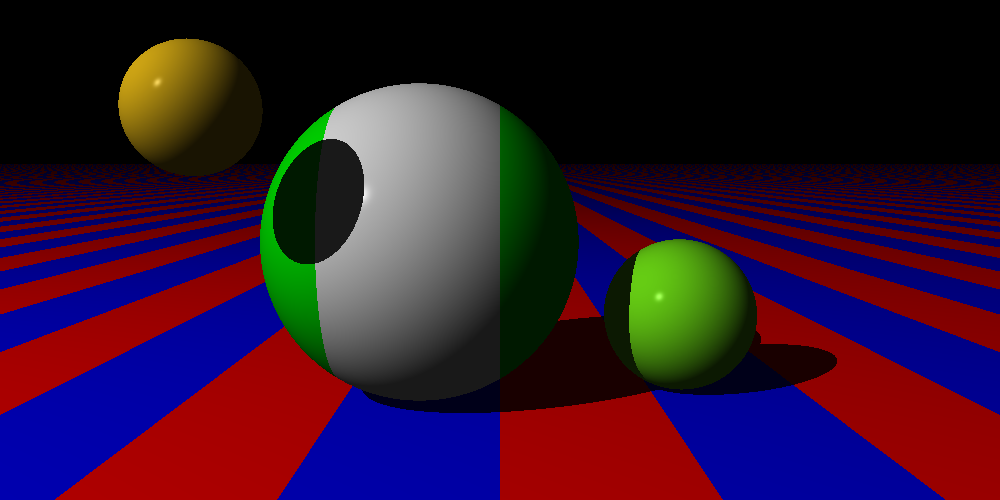
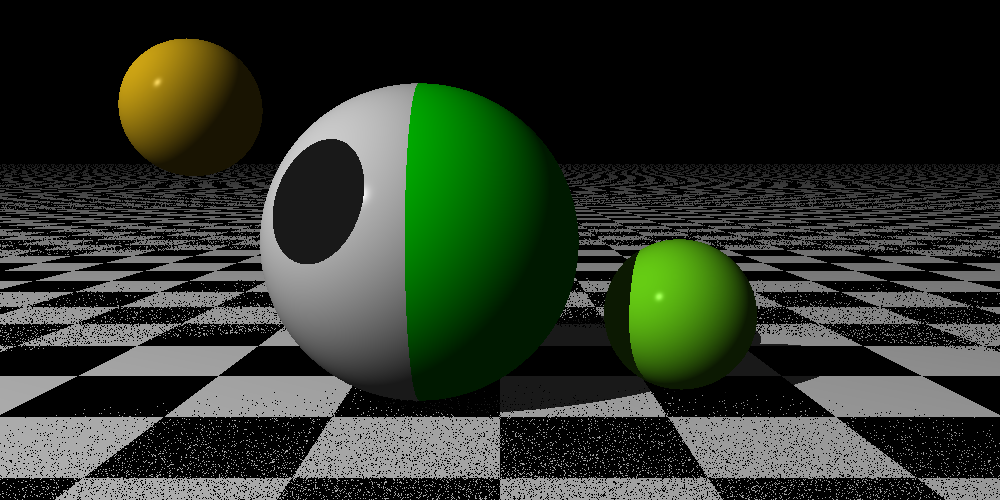
some rounding issue again. probably

diff --git a/mathlib/src/visual/patterns.rs b/mathlib/src/visual/patterns.rs
@@ -1,6 +1,6 @@
 use crate::{
     mathstructs::{matrix::Matrix, point::Point},
-    object::Object,
+    object::Object, cmp::ApproxEq,
 };
 
 use super::color::Col;
@@ -9,16 +9,23 @@ use super::color::Col;
 pub enum Texture {
     Single(Col),
     Stripe(Col, Col),
+    Gradient(Col, Col),
+    Ring(Col, Col),
+    Checker(Col, Col),
 }
 
 impl Texture {
-    pub fn at(&self, point: &Point) -> &Col {
+    pub fn at(&self, point: &Point) -> Col {
         match self {
             Texture::Stripe(a, b) => stripe_at(point, a, b),
-            Texture::Single(a) => a,
+            Texture::Single(a) => *a,
+            Texture::Gradient(a, b) => gradient_at(point, a, b),
+            Texture::Ring(a, b) => ring_at(point, a, b),
+            Texture::Checker(a, b) => checker_at(point, a, b),
         }
     }
 }
+
 
 #[derive(Debug, Clone)]
 pub struct Pattern {
@@ -27,20 +34,48 @@ pub struct Pattern {
 }
 
 impl Pattern {
-    pub fn single(a: Col) -> Self {
+    /// sets pattern transform. (default is None)
+    pub fn pattern_transform(mut self, transform: Matrix) -> Self {
+        self.transform = Some(transform);
+        self
+    }
+
+    pub fn new_single(a: Col) -> Self {
         Self {
             texture: Texture::Single(a),
             transform: None,
         }
     }
-    pub fn stripe(a: Col, b: Col) -> Self {
+
+    pub fn new_stripe(a: Col, b: Col) -> Self {
         Self {
             texture: Texture::Stripe(a, b),
             transform: None,
         }
     }
 
-    pub fn at_with_obj(&self, object: &Object, world_point: &Point) -> &Col {
+    pub fn new_gradient(a: Col, b: Col) -> Self {
+        Self {
+            texture: Texture::Gradient(a, b),
+            transform: None,
+        }
+    }
+
+    pub fn new_ring(a: Col, b: Col) -> Self {
+        Self {
+            texture: Texture::Ring(a, b),
+            transform: None,
+        }
+    }
+
+    pub fn new_checkers(a: Col, b: Col) -> Self {
+        Self {
+            texture: Texture::Checker(a, b),
+            transform: None,
+        }
+    }
+
+    pub fn at_with_obj(&self, object: &Object, world_point: &Point) -> Col {
         let object_point = object.transformation.inverse() * *world_point;
         match self.transform {
             Some(t) => self.texture.at(&(t.inverse() * object_point)),
@@ -55,11 +90,35 @@ impl PartialEq for Pattern {
     }
 }
 
-fn stripe_at<'a>(point: &Point, a: &'a Col, b: &'a Col) -> &'a Col {
+fn stripe_at<'a>(point: &Point, a: &'a Col, b: &'a Col) -> Col {
     if point.x.floor() % 2.0 == 0.0 {
-        return a;
+        return *a;
     }
-    b
+    *b
+}
+
+fn gradient_at<'a>(point: &Point, a: &'a Col, b: &'a Col) -> Col {
+    *a + (*b - *a) * (point.x - point.x.floor())
+}
+
+fn ring_at<'a>(point: &Point, a: &'a Col, b: &'a Col) -> Col {
+    if ((point.x*point.x + point.z*point.z).sqrt()).floor() % 2.0 == 0.0 {
+        return *a;
+    }
+    *b
+}
+
+fn checker_at<'a>(point: &Point, a: &'a Col, b: &'a Col) -> Col {
+    let sum = f64::floor(point.x) + f64::floor(point.y) + f64::floor(point.z);
+        if (sum % 2.0).apx_eq(&0.0) {
+            return *a;
+        }
+        *b
+        
+    // if ((point.x.abs() + point.y.abs() + point.z.abs()) % 2.0) == 0.0 {
+    //     return *a;
+    // }
+    // *b
 }
 
 #[cfg(test)]
@@ -80,23 +139,23 @@ mod tests {
 
     #[test]
     fn creating_a_stripe_patter() {
-        let pattern = Pattern::stripe(WHITE, BLACK);
+        let pattern = Pattern::new_stripe(WHITE, BLACK);
         // constant y:
-        assert_eq!(*pattern.texture.at(&Point::inew(0, 0, 0)), WHITE);
-        assert_eq!(*pattern.texture.at(&Point::inew(0, 1, 0)), WHITE);
-        assert_eq!(*pattern.texture.at(&Point::inew(0, 2, 0)), WHITE);
+        assert_eq!(pattern.texture.at(&Point::inew(0, 0, 0)), WHITE);
+        assert_eq!(pattern.texture.at(&Point::inew(0, 1, 0)), WHITE);
+        assert_eq!(pattern.texture.at(&Point::inew(0, 2, 0)), WHITE);
         // constant z:
-        assert_eq!(*pattern.texture.at(&Point::inew(0, 0, 0)), WHITE);
-        assert_eq!(*pattern.texture.at(&Point::inew(0, 0, 1)), WHITE);
-        assert_eq!(*pattern.texture.at(&Point::inew(0, 0, 2)), WHITE);
+        assert_eq!(pattern.texture.at(&Point::inew(0, 0, 0)), WHITE);
+        assert_eq!(pattern.texture.at(&Point::inew(0, 0, 1)), WHITE);
+        assert_eq!(pattern.texture.at(&Point::inew(0, 0, 2)), WHITE);
         // alternating in x:
-        assert_eq!(*pattern.texture.at(&Point::inew(0, 0, 0)), WHITE);
-        assert_eq!(*pattern.texture.at(&Point::new(0.9, 0.0, 0.0)), WHITE);
-        assert_eq!(*pattern.texture.at(&Point::new(1.0, 0.0, 0.0)), BLACK);
+        assert_eq!(pattern.texture.at(&Point::inew(0, 0, 0)), WHITE);
+        assert_eq!(pattern.texture.at(&Point::new(0.9, 0.0, 0.0)), WHITE);
+        assert_eq!(pattern.texture.at(&Point::new(1.0, 0.0, 0.0)), BLACK);
 
-        assert_eq!(*pattern.texture.at(&Point::new(-0.1, 0.0, 0.0)), BLACK);
-        assert_eq!(*pattern.texture.at(&Point::new(-1.0, 0.0, 0.0)), BLACK);
-        assert_eq!(*pattern.texture.at(&Point::new(-1.1, 0.0, 0.0)), WHITE);
+        assert_eq!(pattern.texture.at(&Point::new(-0.1, 0.0, 0.0)), BLACK);
+        assert_eq!(pattern.texture.at(&Point::new(-1.0, 0.0, 0.0)), BLACK);
+        assert_eq!(pattern.texture.at(&Point::new(-1.1, 0.0, 0.0)), WHITE);
     }
 
     // patterns transforming independently
@@ -104,6 +163,62 @@ mod tests {
     fn stripes_with_an_object_transformation() {
         let mut object = Sphere::new();
         object.set_transform(Matrix::scaling_new(2.0, 2.0, 2.0));
-        let _pattern = Pattern::stripe(WHITE, BLACK);
+        let pattern = Pattern::new_stripe(WHITE, BLACK);
+        let res = pattern.at_with_obj(&object, &Point::new(1.5, 0.0, 0.0));
+        assert_eq!(res, WHITE);
+    }
+
+    #[test]
+    fn stripes_with_a_pattern_transformation() {
+        let object = Sphere::new();
+        let mut pattern = Pattern::new_stripe(WHITE, BLACK);
+        pattern.transform = Some(Matrix::scaling_new(2.0, 2.0, 2.0)); 
+        let res = pattern.at_with_obj(&object, &Point::new(1.5, 0.0, 0.0));
+        assert_eq!(res, WHITE);
+    }
+
+    #[test]
+    fn stripes_with_obj_and_pattern_transformation() {
+        let mut object = Sphere::new();
+        object.set_transform(Matrix::scaling_new(2.0, 2.0, 2.0));
+        let mut pattern = Pattern::new_stripe(WHITE, BLACK);
+        pattern.transform = Some(Matrix::translation_new(0.5, 0.0, 0.0)); 
+        let res = pattern.at_with_obj(&object, &Point::new(2.5, 0.0, 0.0));
+        assert_eq!(res, WHITE);
+    }
+
+    #[test]
+    fn a_gradient_linearly_interpolates_between_colors() {
+        let pattern = Pattern::new_gradient(WHITE, BLACK);
+        assert_eq!(pattern.texture.at(&Point::inew(0, 0, 0)), WHITE);
+        assert_eq!(pattern.texture.at(&Point::new(0.25, 0.0, 0.0)), Col::new(0.75, 0.75, 0.75));
+        assert_eq!(pattern.texture.at(&Point::new(0.5, 0.0, 0.0)), Col::new(0.5, 0.5, 0.5));
+        assert_eq!(pattern.texture.at(&Point::new(0.75, 0.0, 0.0)), Col::new(0.25, 0.25, 0.25));
+    }
+
+    #[test]
+    fn a_ring_should_extend_in_both_x_z() {
+        let pattern = Pattern::new_ring(WHITE, BLACK);
+        assert_eq!(pattern.texture.at(&Point::inew(0, 0, 0)), WHITE);
+        assert_eq!(pattern.texture.at(&Point::new(1.0, 0.0, 0.0)), BLACK);
+        assert_eq!(pattern.texture.at(&Point::new(0.0, 0.0, 1.0)), BLACK);
+        assert_eq!(pattern.texture.at(&Point::new(0.708, 0.0, 0.708)), BLACK);
+    }
+
+    #[test]
+    fn checkers_should_repeat(){
+        let pattern = Pattern::new_checkers(WHITE, BLACK);
+        // repeats x direction
+        assert_eq!(pattern.texture.at(&Point::new(0.0, 0.0, 0.0)), WHITE);
+        assert_eq!(pattern.texture.at(&Point::new(0.99, 0.0, 0.0)), WHITE);
+        assert_eq!(pattern.texture.at(&Point::new(1.01, 0.0, 0.0)), WHITE);
+        // repeats y direction
+        assert_eq!(pattern.texture.at(&Point::new(0.0, 0.0, 0.0)), WHITE);
+        assert_eq!(pattern.texture.at(&Point::new(0.0, 0.99, 0.0)), WHITE);
+        assert_eq!(pattern.texture.at(&Point::new(0.0, 1.01, 0.0)), WHITE);
+        // repeats z direction
+        assert_eq!(pattern.texture.at(&Point::new(0.0, 0.0, 0.0)), WHITE);
+        assert_eq!(pattern.texture.at(&Point::new(0.0, 0.0, 0.99)), WHITE);
+        assert_eq!(pattern.texture.at(&Point::new(0.0, 0.0, 1.01)), WHITE);
     }
 }

diff --git a/mathlib/src/visual/light.rs b/mathlib/src/visual/light.rs
@@ -35,7 +35,7 @@ impl Light {
     ) -> Col {
         let material_color = match material.pattern.texture {
             Texture::Single(col) => col,
-            _ => *material.pattern.at_with_obj(object, point),
+            _ => material.pattern.at_with_obj(object, point),
         };
         Self::lighting_calculations(
             material,
@@ -60,7 +60,7 @@ impl Light {
     ) -> Col {
         let material_color = match material.pattern.texture {
             Texture::Single(col) => col,
-            _ => *material.pattern.texture.at(point),
+            _ => material.pattern.texture.at(point),
         };
         Self::lighting_calculations(
             material,
@@ -225,7 +225,7 @@ mod tests {
     #[test]
     fn lighting_with_pattern_applied() {
         let mut material = Material::new();
-        material.pattern = Pattern::stripe(WHITE, BLACK);
+        material.pattern = Pattern::new_stripe(WHITE, BLACK);
         material.ambient = 1.0;
         material.diffuse = 0.0;
         material.specular = 0.0;

diff --git a/runtime_unix/src/examples/chapter10.rs b/runtime_unix/src/examples/chapter10.rs
@@ -8,7 +8,7 @@ use mathlib::{
     object::{plane::Plane, sphere::Sphere},
     visual::{
         camera::Camera,
-        color::{Col, BLUE, GREEN, RED, WHITE},
+        color::{Col, BLUE, GREEN, RED, WHITE, BLACK},
         light::Light,
         material::Material,
         patterns::Pattern,
@@ -26,7 +26,7 @@ pub fn build_example() {
     // a plane as the floor
     let mut floor = Plane::new();
     floor.material = base_mat.clone();
-    floor.material.pattern = Pattern::stripe(RED, BLUE);
+    floor.material.pattern = Pattern::new_checkers(WHITE, BLACK);
 
     // colored red sphere in the middle:
     let mut middle = Sphere::new();
@@ -35,7 +35,7 @@ pub fn build_example() {
     middle.material.color(Col::new(0.1, 1.0, 0.5));
     middle.material.diffuse = 0.7;
     middle.material.specular = 0.3;
-    middle.material.pattern = Pattern::stripe(GREEN, WHITE);
+    middle.material.pattern = Pattern::new_stripe(GREEN, WHITE);
 
     // colored green halfsize sphere on the right:
     let mut right = Sphere::new();

diff --git a/mathlib/src/visual/material.rs b/mathlib/src/visual/material.rs
@@ -19,7 +19,7 @@ impl Material {
 
     /// 'setter' for a single color
     pub fn color(&mut self, color: Col) {
-        self.pattern = Pattern::single(color);
+        self.pattern = Pattern::new_single(color);
     }
 }
 
@@ -30,7 +30,7 @@ impl Default for Material {
             diffuse: 0.9,
             specular: 0.9,
             shininess: 200.0,
-            pattern: Pattern::single(WHITE),
+            pattern: Pattern::new_single(WHITE),
         }
     }
 }
@@ -54,7 +54,7 @@ mod tests {
     #[test]
     fn ctor_material_values() {
         let m = Material::new();
-        assert_eq!(m.pattern, Pattern::single(Col::new(1.0, 1.0, 1.0)));
+        assert_eq!(m.pattern, Pattern::new_single(Col::new(1.0, 1.0, 1.0)));
         assert_eq!(m.ambient, 0.1);
         assert_eq!(m.diffuse, 0.9);
         assert_eq!(m.specular, 0.9);

diff --git a/mathlib/src/visual/world.rs b/mathlib/src/visual/world.rs
@@ -38,7 +38,7 @@ impl Default for World {
     fn default() -> Self {
         let mut objects = vec![];
         let mut s1 = Sphere::new();
-        s1.material.pattern = Pattern::single(Col::new(0.8, 1.0, 0.6));
+        s1.material.pattern = Pattern::new_single(Col::new(0.8, 1.0, 0.6));
         s1.material.diffuse = 0.7;
         s1.material.specular = 0.2;
         objects.push(s1);
